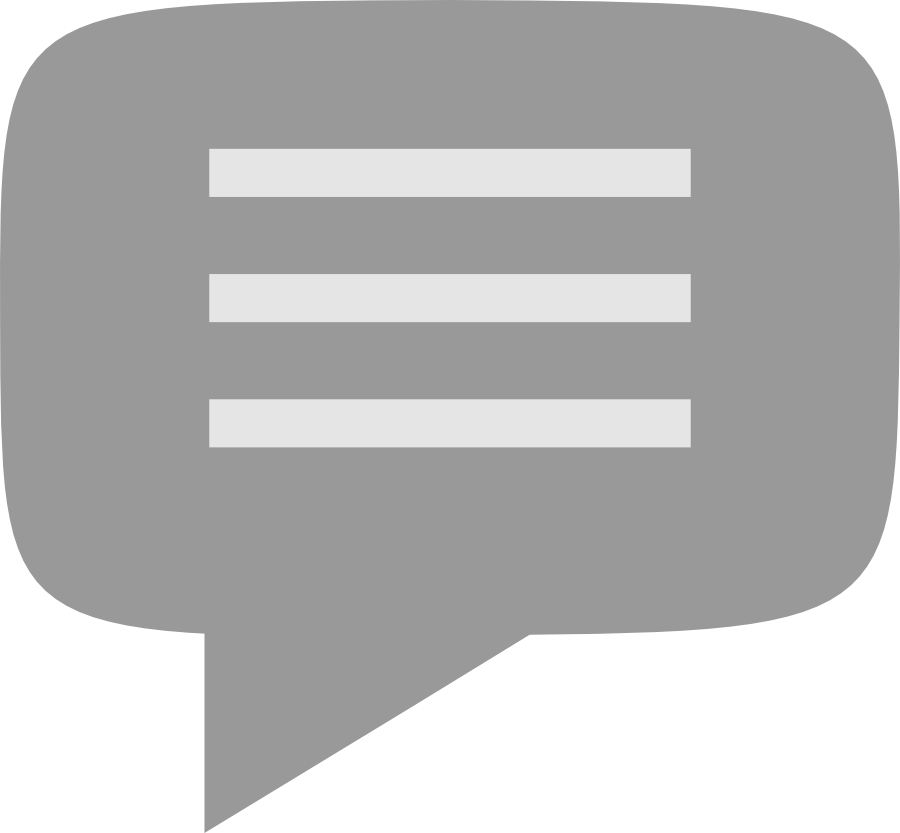
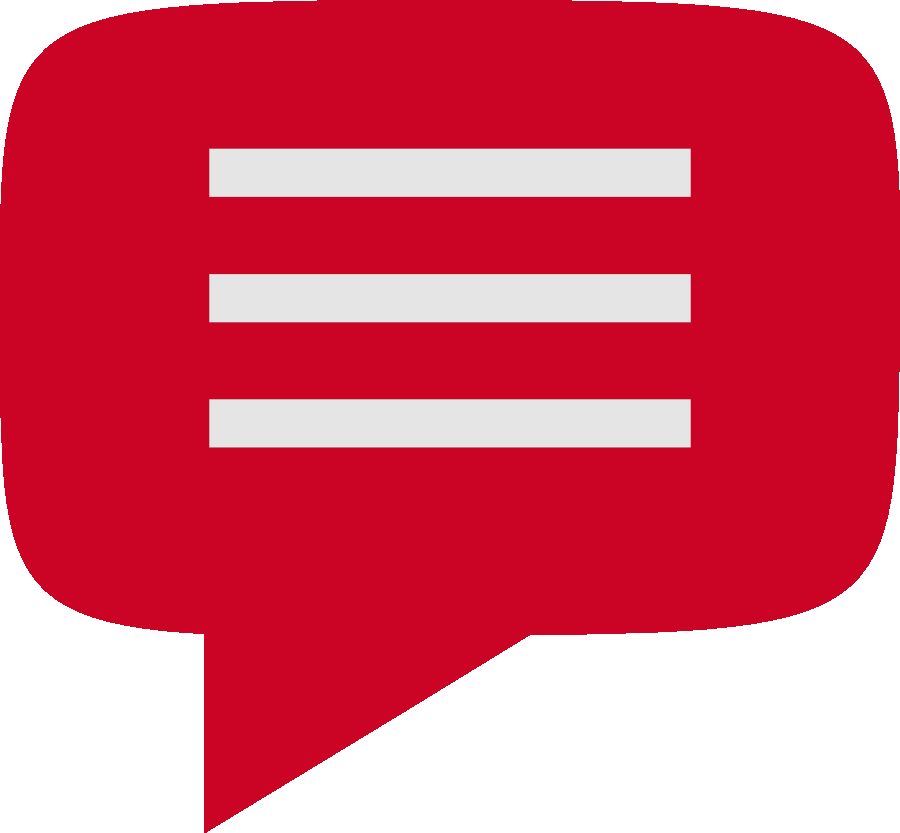
Retoques de Nuria

diff --git a/src/components/programacion.html b/src/components/programacion.html
@@ -7,7 +7,7 @@
 
     <div class="programacion">
         <h2>Horario</h2>
-        <p class="horario">Todos los sábados de julio de 20:00 a 01:00.</p>
+        <p class="horario">Todos los sábados de julio de 20:00h a 01:00h.</p>
         <h2>Actividades</h2>
         <p>Cada sábado estará ambientado según el lugar de origen de los títeres representados.
             Dispondremos de luces, música ambiente y comida propia de cada región. Ven y 
@@ -21,7 +21,7 @@
             <h2>Indonesia</h2>
             <p class="fecha">Sábado 7</p>
             <img src="../img/indonesia.jpg" alt="Indonesia">
-            <p class="nombre">Wayang kulit (títeres javaneses).</p>
+            <p class="nombre">WAYANG KULIT (títeres javaneses).</p>
             <p class="intro">Teatro de sombras protagonizado por títeres de varillas y su sombra.
                 Las marionetas se construyen generalmente en cuero troquelado y pintado y tienen brazos
                 móviles (una varilla central unida a la cabeza y dos varillas que conectan con las manos). 
@@ -33,7 +33,7 @@
                 <h2>Japón</h2>
                 <p class="fecha">Sábado 14</p>
                 <img src="../img/japon.jpg" alt="Japon">
-                <p class="nombre">Ningyo Johruri Bunraku (teatro de marionetas japonés).</p>
+                <p class="nombre">NINGYO JOHRURI BUNRAKU (teatro de marionetas japonés).</p>
                 <p class="intro"> Cada marioneta es manipulada generalmente por tres personas, excepto los personajes
                     secundarios, que suelen ser más sencillos.
                     Los titiriteros aparecen a la vista de los espectadores. Además de ellos se encuentra la
@@ -48,7 +48,7 @@
             <h2>Nepal</h2>
             <p class="fecha">Sábado 21</p>
             <img src="../img/nepal.jpg" alt="nepal">
-            <p class="nombre">Kathputlis (títeres nepalíes).</p>
+            <p class="nombre">KATHPUTLIS (títeres nepalíes).</p>
             <p class="intro">Se construyen con madera, papel reciclado, restos de sari, alambre y tela. 
                 Se caracterizan por sus cabezas talladas y sus amplios y voluminosos faldones.
                 Los ojos son el último elemento que se añade en el proceso de construcción, destacados por
@@ -62,7 +62,7 @@
             <h2>Vietnam</h2>
             <p class="fecha">Sábado 28</p>
             <img src="../img/vietnam.jpg" alt="vietnam">
-            <p class="nombre">Roi nuoc (títeres vietnamitas).</p>
+            <p class="nombre">ROI NUOC (títeres vietnamitas).</p>
             <p class="intro">Están hechas de madera, normalmente de higuera, meticulosamente esculpidas,
                 policromadas con alegres colores y esmaltadas. Se mueven a bastante distancia, desde atrás,
                 con varillas, perchas y cuerdas, por titiriteros ocultos tras pantallas de tela o toldos.

diff --git a/src/components/principal.html b/src/components/principal.html
@@ -12,8 +12,8 @@
             <p>El festival de marionetas “Arreu”, se inaugura este año 2018 
                 con la intención de promover el arte de los títeres, 
                 tanto a nivel educativo como artístico. Se celebrará durante cada 
-                domingo del mes de Julio; en el barrio de Velluters. Será una tarde 
-                llena de espectáculos, comida y actividades y se alargará hasta la noche. 
+                sábado del mes de Julio; en la plaza Viriato en Valencia. Será una tarde 
+                llena de espectáculos, música, comida y actividades que se alargarán hasta la noche. 
             </p>
         </div>
 
@@ -24,7 +24,7 @@
        
         <div class="texto-principal">
             <h2>Arreu del món 2018</h2>
-            <p> Este año en concreto, la temática será “Arreu d’Orient”, de manera que 
+            <p> Este año en concreto, la temática será “Arreu del món”, de manera que 
                 cada fin de semana las actividades y los shows estarán ambientados según 
                 las tradiciones titiriteras de distintos lugares asiáticos. Estos lugares 
                 son Japón, Nepal, Vietnam, y la Isla de Java. En la programación
@@ -47,7 +47,8 @@
                     Además de crear un buen ambiente festivo para gente de todas la edades. 
                 </p>
                 <p>
-                    Si deseas mantenerte informado, visita nuestra página web o síguenos en las redes sociales.
+                    Si deseas mantenerte informado, visita nuestra página web y descubre información
+                    sobre las actividades y los productos que encontrarás en los días que se realize el evento.
                 </p>
        </div>
 

diff --git a/src/scss/components/_programacion.scss b/src/scss/components/_programacion.scss
@@ -21,7 +21,7 @@
         padding-left: 30px; 
 
         @include if-mobile-landscape{
-            padding-left: 10px; 
+            padding-left: 2px; 
            }
        }
 
@@ -30,7 +30,7 @@
            padding-left: 30px;
 
            @include if-mobile-landscape{
-            padding-left: 10px; 
+            padding-left: 2px; 
            }
            @include if-tablet-portrait {
             font-size: $font-size-body;
@@ -50,7 +50,7 @@
         margin-bottom: 20px;
       
         @include if-mobile-landscape{
-            padding: 10px 60px 20px 60px;
+            padding: 10px 60px 20px 50px;
            }
         
         @include if-tablet-portrait{
@@ -87,19 +87,17 @@
             padding: 10px 55px 10px 55px;
 
             .nombre, .intro{
-                padding: 7px;
+                padding-right: 20px;
+                padding-bottom: 5px;
             }
         }
 
-        @include if-mobile-landscape{
-            padding: 10px 50px 20px 50px;
-        }
 
         @include if-tablet-portrait{
             padding: 10px 60px 20px 60px;
 
             .nombre, .intro{
-                padding: 8px;
+                padding-right: 30px;
             }
 
             .indonesia, .nepal{
@@ -132,7 +130,6 @@
         .nombre{
             margin-top: 10px;
             margin-bottom: 5px;
-            text-transform: uppercase;
         }
 
         .fecha{
@@ -154,7 +151,7 @@
 
             @include if-tablet-landscape{
                 font-size: $font-size-h1;
-                margin-bottom: 30px;
+                margin-bottom: 20px;
 
             }
         }

diff --git a/src/scss/components/_contacto.scss b/src/scss/components/_contacto.scss
@@ -28,7 +28,7 @@
 
         h2{
             font-size: $font-size-h3;
-            color: $purple-blue;
+            color: $red;
             margin-bottom: 20px;
             text-align: center;
 
@@ -81,10 +81,10 @@
             .form-fila-1 {
                 width: 100%;
                 display: flex;
-                flex-direction: row;
+                flex-direction: column;
 
                 @include if-tablet-landscape{
-                    flex-direction: column;
+                    flex-direction: row;
                 }
 
                 .form{
@@ -94,11 +94,11 @@
                 }
                 
                 .name {
-                    width: 48%;
-                    margin-right: 10px;
+                    width: 100%;
+                    margin-right: 5px;
 
                     @include if-tablet-landscape{
-                        width: 100%;
+                        width: 48%;
                     }
                     .form-input-name{
                         width: 95%;
@@ -109,10 +109,10 @@
                 }
 
                 .gmail {
-                    width: 48%;
+                    width: 100%;
                     
                     @include if-tablet-landscape{
-                        width: 100%;
+                        width: 48%;
                     }
 
                     .form-input-mail{

diff --git a/src/scss/components/_footer.scss b/src/scss/components/_footer.scss
@@ -101,20 +101,26 @@
         }
 
         .icon{
-            width: 20px;
+            width: 15px;
             padding-top: 10px;
 
             @include if-mobile-landscape {
                 flex-direction: row;
                 padding-left: 10px;
-                width: 30px;
-                height: 35px;
+                width: 25px;
+                height: 25px;
+            }
+
+            @include if-tablet-portrait {
+                padding-left: 20px;
+                width: 37px;
+                height: 32px;
             }
 
             @include if-tablet-landscape {
                 padding-left: 20px;
-                width: 45px;
-                height: 40px;
+                width: 40px;
+                height: 35px;
             }
         }
     }

diff --git a/src/components/contacto.html b/src/components/contacto.html
@@ -10,8 +10,10 @@
             <p>
                 Bienvenido a la página web del evento de títeres Arreu.
                 Somos Nuria Abellán, Ana Cucó, Miranda Guerriero, Vera Maeso, 
-                Núria Murgui y Alba Sanjuan. Si quieres ponerte en contacto con
-                nostras respecto al evento, rellena el siguiente formulario:
+                Núria Murgui y Alba Sanjuan, diseñadoras de la imagen de
+                Arreu. Esperamos que disfrutes de esta experiencia multicultural
+                única en Valencia. Si quieres ponerte en contacto con nostras respecto al evento, 
+                rellena el siguiente formulario:
             </p>
         </div>
 

diff --git a/src/scss/components/_header.scss b/src/scss/components/_header.scss
@@ -70,8 +70,8 @@
         width: 55px;
 
         @include if-mobile-landscape {
-            width: 90px;
-            padding-left: 15px;
+            width: 80px;
+            padding-right: 5px;
         }
 
         @include if-tablet-portrait {
